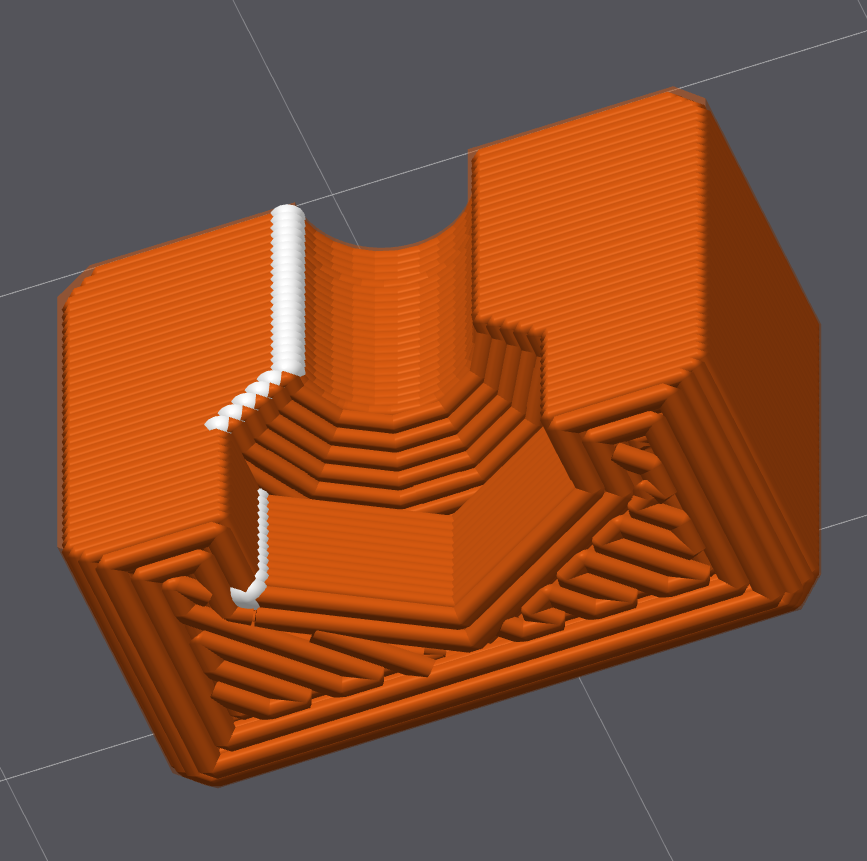
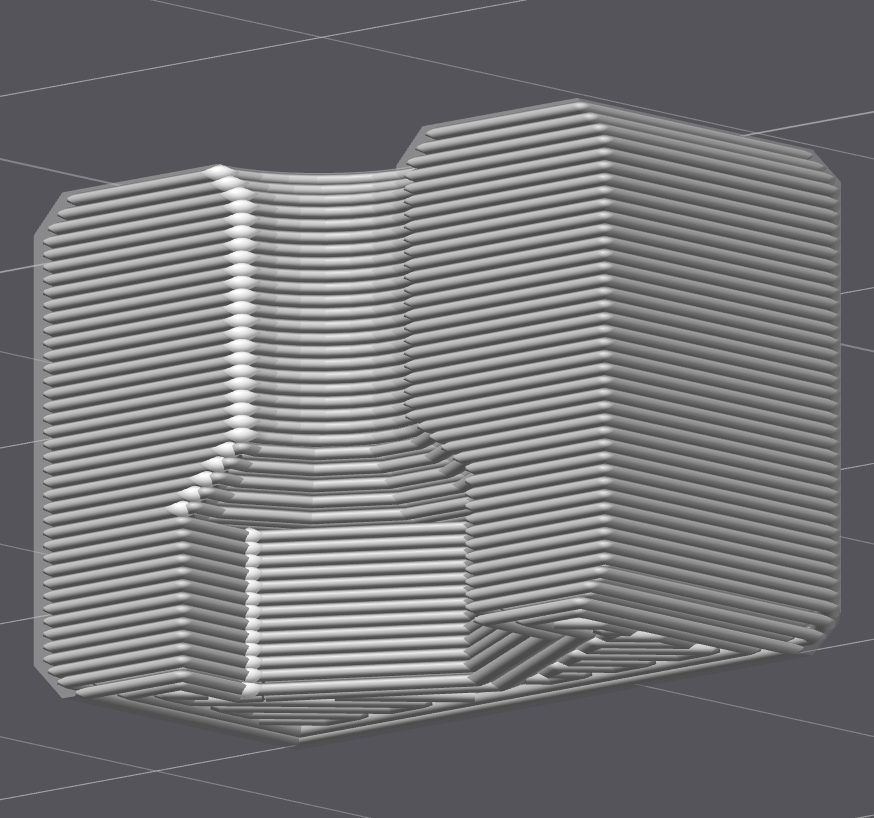
add bridged-hole views

diff --git a/bosl2/README.md b/bosl2/README.md
@@ -14,7 +14,7 @@ Using OpenSCAD together with the BOSL2 library.
 
 - [basic-bosl2.scad](./basic-bosl2.scad) - Minimal BOSL2 example that attaches a cylinder to the top face of a cuboid using `attach()`. [🧊✏][mw-basic-bosl2]
 - [attach.scad](./attach.scad) - Demonstrates BOSL2 anchors and `attach()` by cutting an attached countersunk hole into a box.
-- [bridged-hole.scad](./bridged-hole.scad) - Cuboid with a hexagonal nut pocket at the bottom and a screw hole on top; the pocket roof is closed by one-layer bridging planes that step in alternately along X and Y, so it prints without supports.
+- [bridged-hole.scad](./bridged-hole.scad) - Cuboid with a hexagonal nut pocket at the bottom and a screw hole on top; the pocket roof is closed by one-layer bridging planes that step in alternately along X and Y, so it prints without supports. <br /><br /> ![bridged-hole views](assets/bridged-hole-gallery.jpg)
 - [holes-grid.scad](./holes-grid.scad) - Perforated plate with a configurable rounded outline, chamfered edges, and repeated beveled holes. [🧊✏][mw-holes-grid]
 - [name-plate.scad](./name-plate.scad) - Configurable rounded name plate with recessed text. [🧊✏][mw-name-plate] <br /><br /> ![printed](assets/name-plate.jpg)
 - [screw-post.scad](./screw-post.scad) - Chamfered square post for wall corners with a vertical screw hole from the top and a side slot for a retained nut. Prints without any supports. <br /><br /> ![screw post preview](assets/screw-post-model.png)
